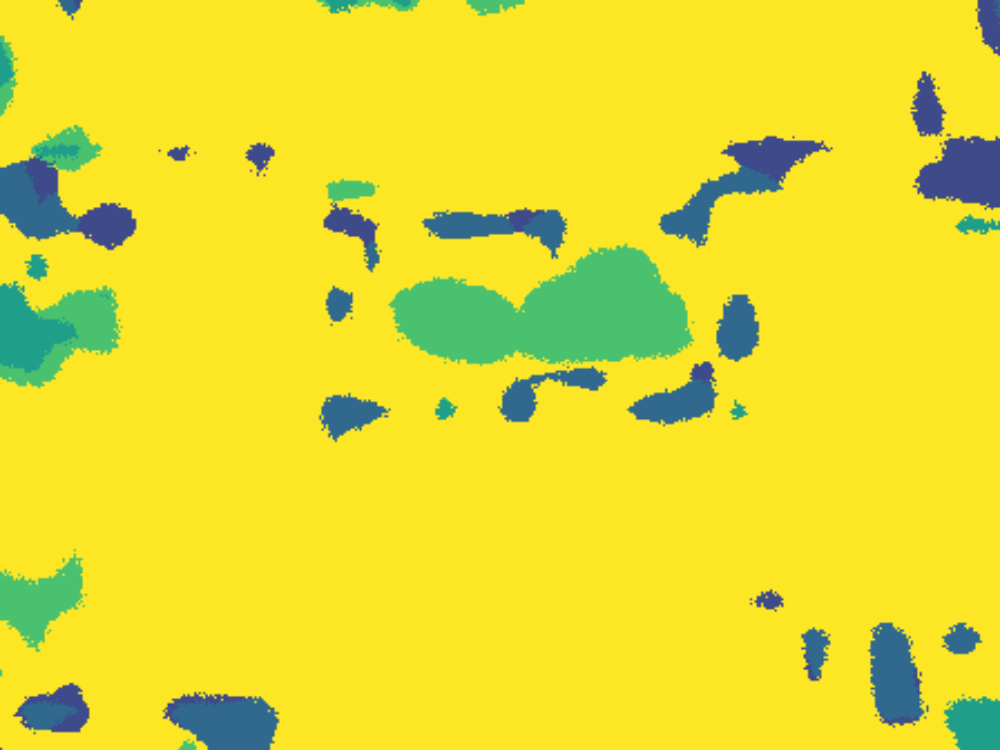
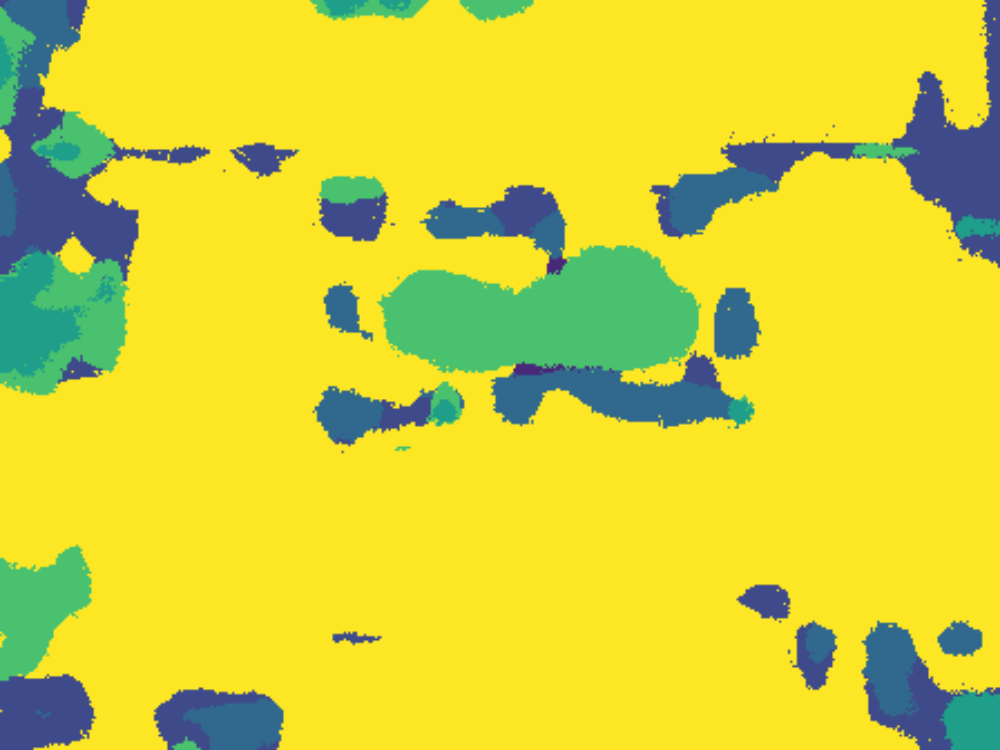
emmm

diff --git a/benchmark/clearclip.py b/benchmark/clearclip.py
@@ -2,7 +2,6 @@ import torch
 import torch.nn as nn
 import torch.nn.functional as F
 import numpy as np
-import matplotlib.pyplot as plt
 from PIL import Image
 from torchvision import transforms
 from typing import List
@@ -10,7 +9,7 @@ import open_clip
 import os
 
 # ==========================================
-# 1. PAMR 核心组件
+# 1. PAMR 核心组件 (保持高效卷积实现)
 # ==========================================
 
 class LocalAffinity(nn.Module):
@@ -52,25 +51,31 @@ class LocalAffinityAbs(LocalAffinity):
     def forward(self, x): return torch.abs(super(LocalAffinityAbs, self).forward(x))
 
 class PAMR(nn.Module):
-    def __init__(self, num_iter=1, dilations=[1, 2]):
+    def __init__(self, num_iter=1, dilations=[1, 2, 4]):
         super(PAMR, self).__init__()
         self.num_iter = num_iter
         self.aff_x = LocalAffinityAbs(dilations)
         self.aff_m = LocalAffinityCopy(dilations)
         self.aff_std = LocalStDev(dilations)
 
-    def forward(self, x, mask):
-        # ✅ 修复：用 bilinear，但**只在PAMR内部用一次，不额外放大**
-        mask = F.interpolate(mask, size=x.size()[-2:], mode="bilinear", align_corners=True)
+    def forward(self, guide, mask):
+        """
+        guide: 原图 (B, 3, H, W)
+        mask: 低分辨率 Logits (B, C, gh, gw)
+        """
+        # 将 mask 上采样到原图分辨率 (H, W)
+        mask = F.interpolate(mask, size=guide.size()[-2:], mode="bilinear", align_corners=True)
         
-        x_std = self.aff_std(x)
-        x_aff = -self.aff_x(x) / (1e-8 + 0.1 * x_std)
-        x_aff = F.softmax(x_aff.mean(1, keepdim=True), 2)
+        # 基于原图计算亲和性权重
+        guide_std = self.aff_std(guide)
+        guide_aff = -self.aff_x(guide) / (1e-8 + 0.1 * guide_std)
+        # 在通道维度平滑权重，并进行 Softmax 归一化
+        guide_aff = F.softmax(guide_aff.mean(1, keepdim=True), 2)
         
+        # 迭代扩散传播
         for _ in range(self.num_iter):
             m = self.aff_m(mask)
-            mask = (m * x_aff).sum(2)
-            del m 
+            mask = (m * guide_aff).sum(2)
         return mask
 
 # ==========================================
@@ -88,7 +93,8 @@ class DenseClip(nn.Module):
         self.feat_dim = self.visual.conv1.out_channels
         self.embed_dim = model.text_projection.shape[1] if hasattr(model, 'text_projection') else self.feat_dim
 
-        self.pamr = PAMR(num_iter=1, dilations=[1,2]).to(self.device)
+        # 增加 dilation 范围以适应高分辨率引导
+        self.pamr = PAMR(num_iter=1, dilations=[1, 2, 4, 8]).to(self.device)
 
         self.v_proj = nn.Conv2d(self.feat_dim, self.embed_dim, 1).to(self.device)
         if hasattr(self.visual, 'proj') and self.visual.proj is not None:
@@ -143,14 +149,17 @@ class DenseClip(nn.Module):
         return feat[:, 1:, :].permute(0, 2, 1).reshape(B, self.feat_dim, gh, gw)
 
     def forward(self, x):
+        # 1. 提取 CLIP 原始特征
         lr_feat = self._stem(x) 
         feat_reduced = F.normalize(self.v_proj(lr_feat), dim=1)
         
+        # 2. 生成低分辨率 Logits
         B, C, gh, gw = feat_reduced.shape
         logits = (feat_reduced.permute(0, 2, 3, 1).reshape(-1, C) @ self.zeroshot_weights) / self.temperature
         logits = logits.reshape(B, gh, gw, -1).permute(0, 3, 1, 2) 
 
-        # ✅ 绝对禁止：2倍上采样（会导致物体变大）
+        # 3. 🔥 核心修改：使用原图 x 作为引导
+        # 注意：这里 x 是归一化后的，如果想让颜色引导更强，也可以传入未归一化的图
         refined_logits = self.pamr(x, logits)
         return refined_logits
 
@@ -165,10 +174,10 @@ def run_inference(image_path, labels, palette, output_path="clearclip_final.png"
     img_raw = Image.open(image_path).convert('RGB')
     orig_w, orig_h = img_raw.size
     
+    # 稍微增大处理分辨率以获得更精细的 PAMR 结果
     target_w = 448 
     ratio = target_w / orig_w
     target_h = int(orig_h * ratio)
-    
     new_w = (target_w // 16) * 16
     new_h = (target_h // 16) * 16
     
@@ -180,18 +189,20 @@ def run_inference(image_path, labels, palette, output_path="clearclip_final.png"
     
     with torch.inference_mode():
         img_tensor = transform(img_raw).unsqueeze(0).to(device)
+        # 此时 model 返回的结果分辨率已经是 (new_h, new_w)
         output = model(img_tensor)
         mask = torch.argmax(output, dim=1).squeeze(0).cpu().numpy()
 
+    # 映射颜色
     color_mask = palette[mask]
     final_img = Image.fromarray(color_mask.astype(np.uint8))
     
-    # ✅ 最终输出用 BILINEAR，边缘自然，不方块
+    # 最终缩放回原图尺寸
     final_img = final_img.resize((orig_w, orig_h), Image.BILINEAR)
     
     os.makedirs(os.path.dirname(output_path), exist_ok=True)
     final_img.save(output_path)
-    
+    print(f"Result saved to {output_path}")
 
 # ==========================================
 # 4. 执行
@@ -202,9 +213,12 @@ target_labels = [
     'tree', 'grass', 'cropland', 'building'
 ]
 
+# 对应类别的调色盘 (Viridis 风格)
 custom_palette = np.array([
     (68, 1, 84), (72, 40, 120), (62, 74, 137), (49, 104, 142), (38, 130, 142), 
     (31, 158, 137), (73, 193, 110), (160, 218, 57), (253, 231, 37)
 ], dtype=np.uint8)
 
-run_inference("img3.jpg", target_labels, custom_palette, "img2/clearclip.png")
+if __name__ == "__main__":
+    # 确保 img3.jpg 存在
+    run_inference("img3.jpg", target_labels, custom_palette, "img2/clearclip.png")

diff --git a/infer.py b/infer.py
@@ -134,6 +134,9 @@ def main():
 
         # 4. 渲染不透明掩码 (alpha=1.0)
         seg_result = draw_segmentation_masks(img_tensor, masks, colors=custom_palette, alpha=1.0)
+        save_path = f'img2/{args.filename}'
+        seg_result_pil = TF.to_pil_image(seg_result)
+        seg_result_pil.save(save_path)
         
         # 5. 可视化
         fig, ax = plt.subplots(1, 2, figsize=(20, 10))
